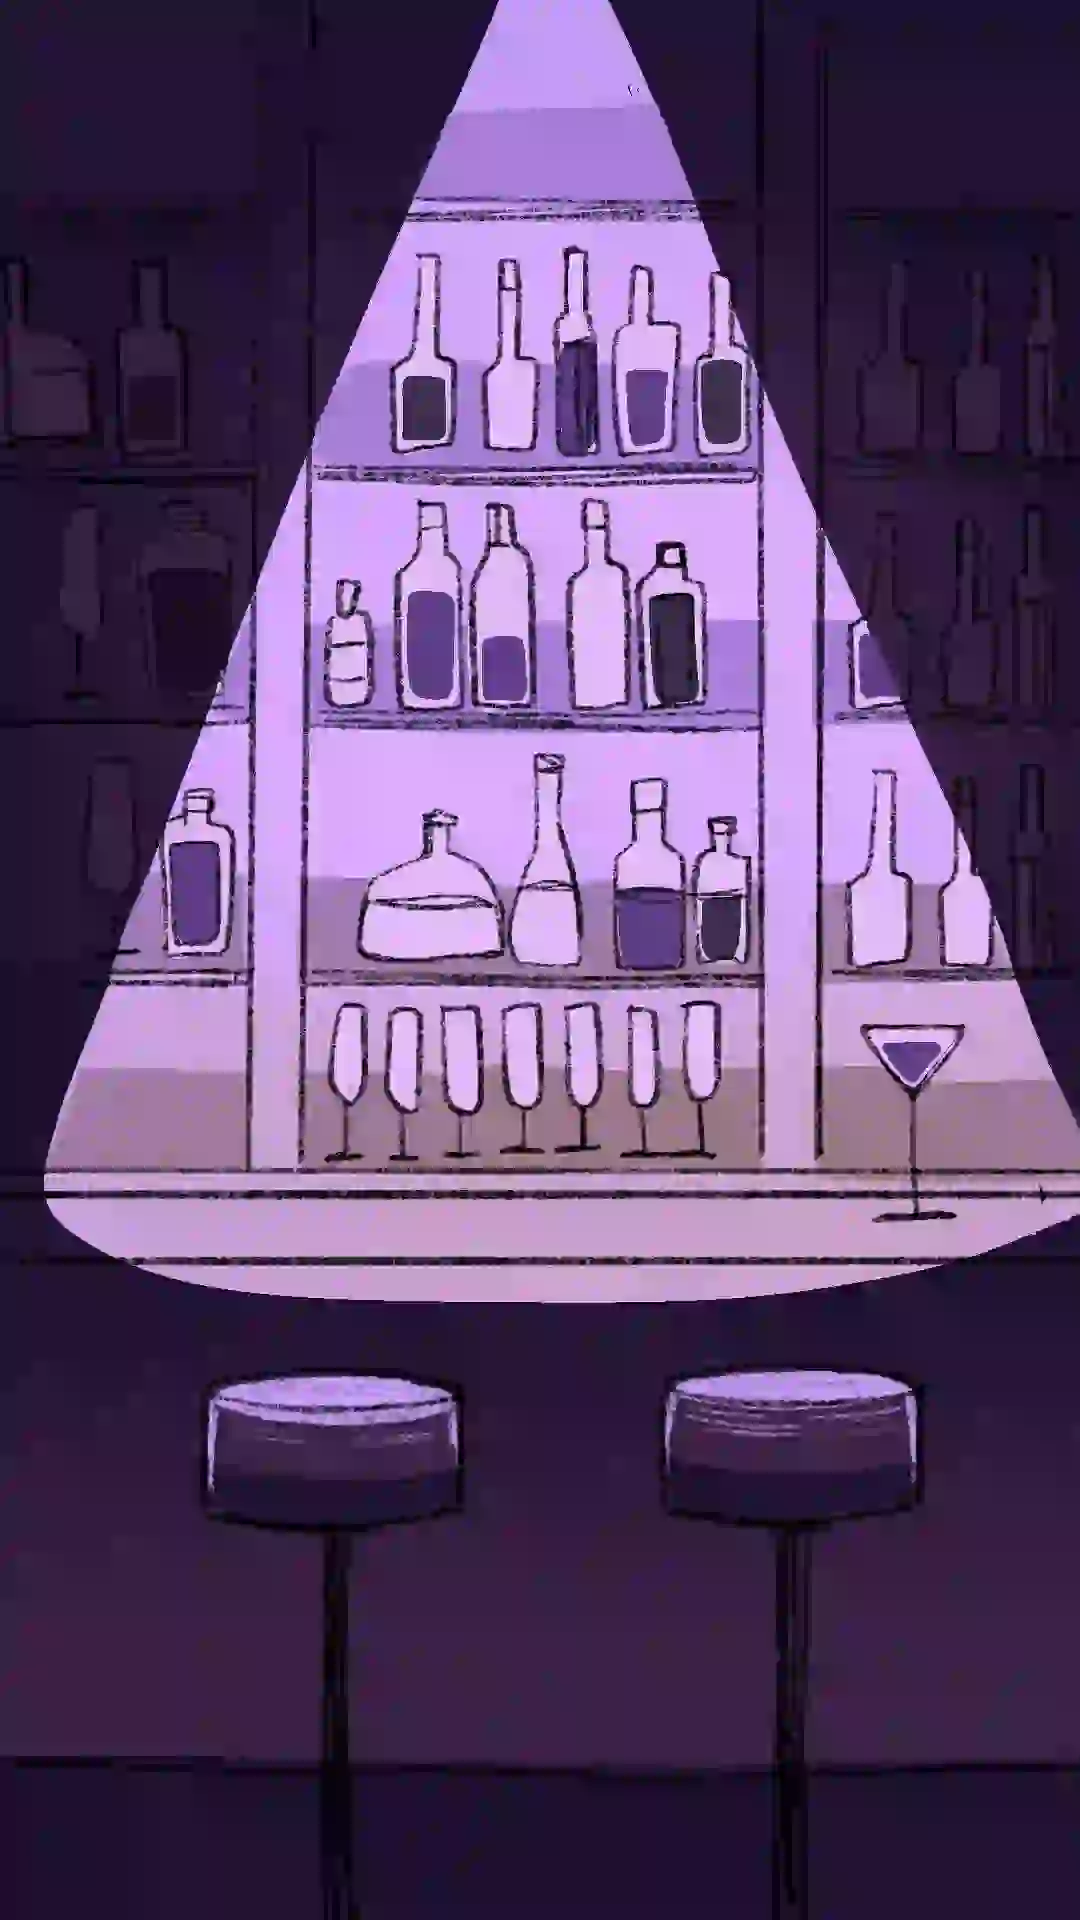
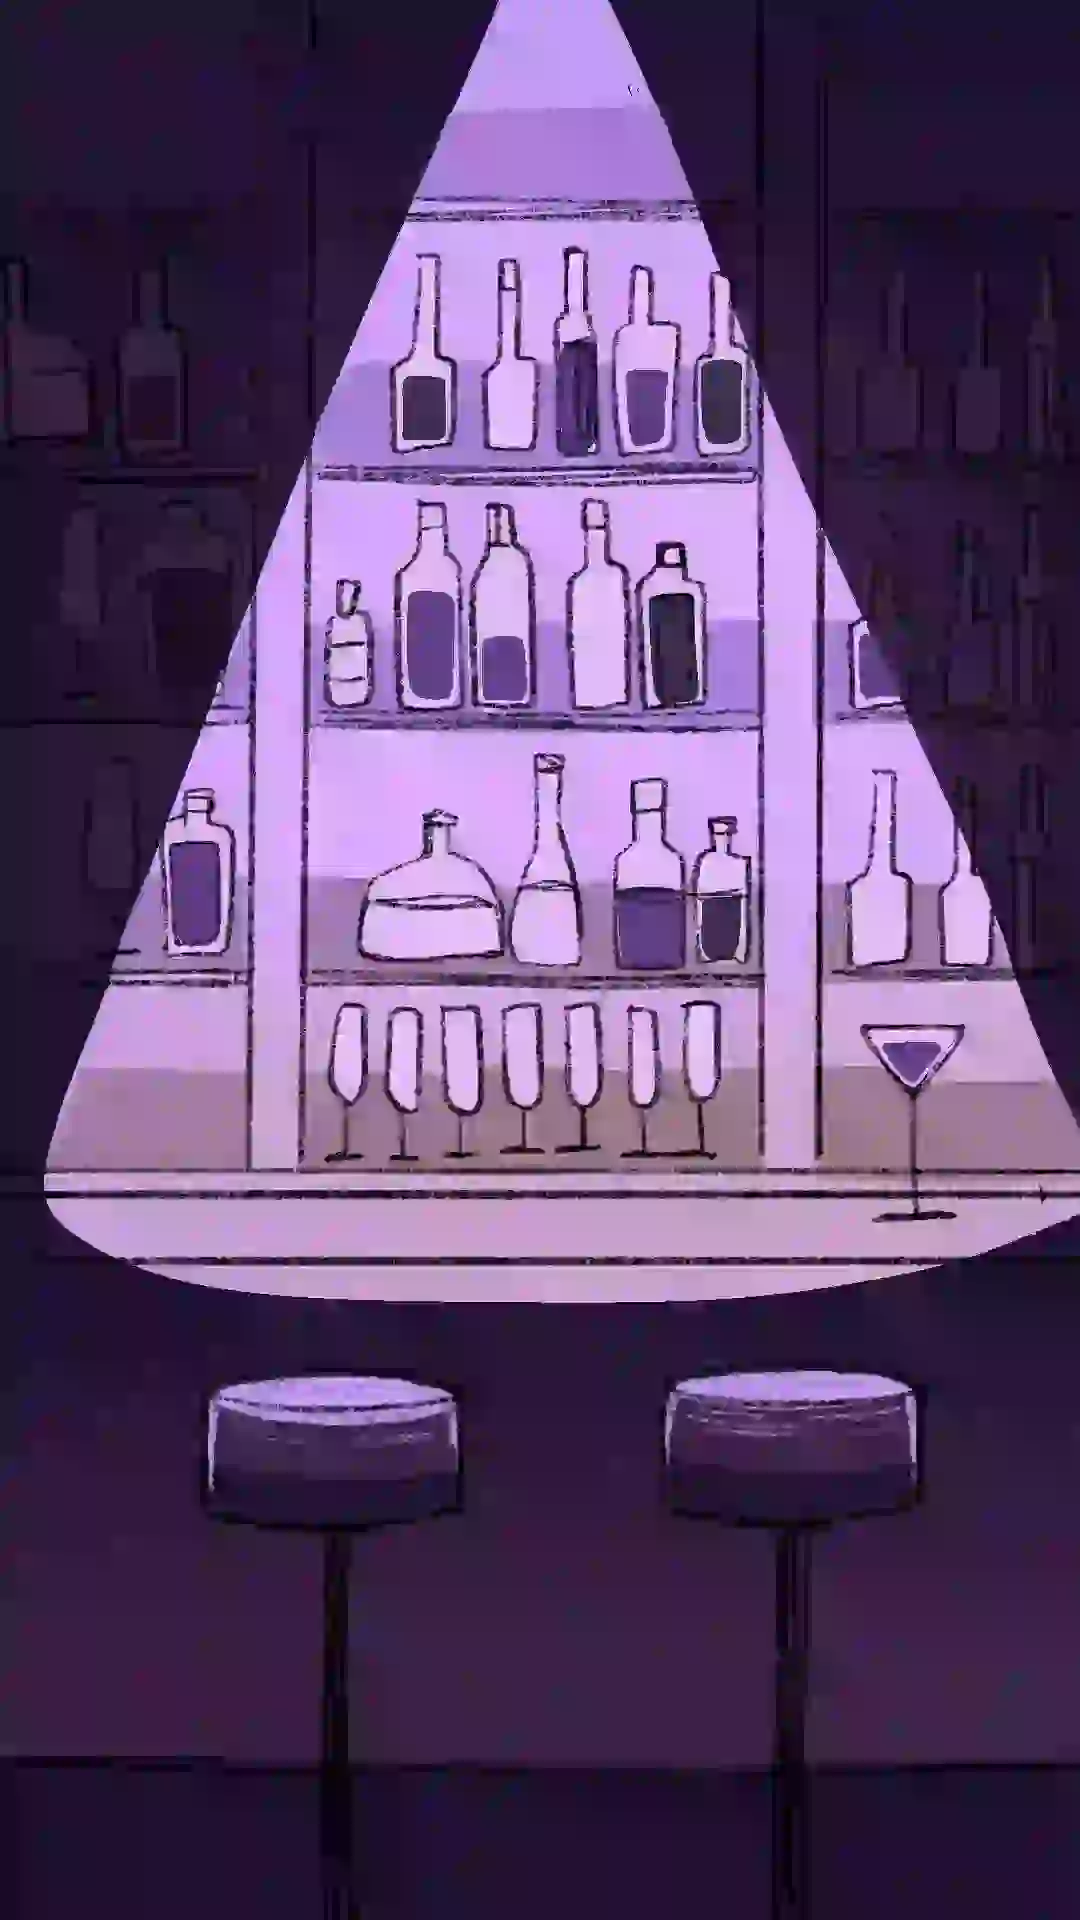
feat: improve image

diff --git a/src/components/register-page/Hero.tsx b/src/components/register-page/Hero.tsx
@@ -4,7 +4,7 @@ import { useCookies } from "react-cookie";
 import parser from "@/utils/parser";
 
 import BarImage from "@/assets/images/bar.webp";
-import PageImage from "@/assets/images/Scene14.webp";
+import PageImage from "@/assets/images/Scene14-low-res.webp";
 
 interface HeroProps {
   accessToken: string | undefined;
